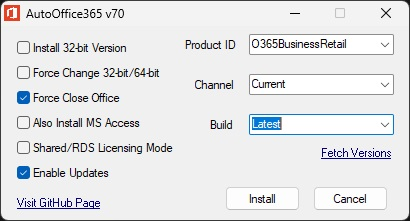
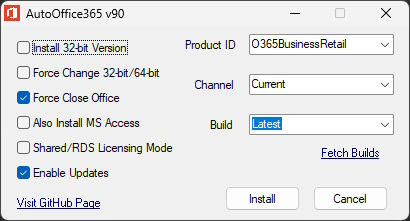
update screenshot and readme

diff --git a/README.md b/README.md
@@ -1,5 +1,5 @@
 # AutoOffice365
-This simple tool works as an interface for the Office Deployment Tool, allowing you to quickly install Microsoft Office without editing required XML file or using the command line.
+This simple tool works as an interface for the Office Deployment Tool, allowing you to quickly install Microsoft Office without editing the required XML file or using the command line.
 
 <p align="center">
   <img src="https://github.com/jmclaren7/auto-office-365/blob/main/Extras/screenshot1.jpg?raw=true">
@@ -10,13 +10,3 @@ This simple tool works as an interface for the Office Deployment Tool, allowing 
 * Select or type the product ID, channel and build to install
 * Select the channel you want and the click "Fetch Versions" to automatically populate a list of build numbers (Thanks to the API at https://office365versions.com)
 * Add "[silent]" to the file name to have the installer run automatically with default values
-
-## To Do
-* Add an option to specify where the install data is saved (DownloadPath)
-* Add an option to use already downloaded install data
-* Add language selection with support for multiple language selection
-* Add option to hide log, ODT console and ODT window
-* Add more product ID options to make individual product install possible with support for multiple product selection and product exclusion
-* Add activation options
-* Add DeviceBasedLicensing and SCLCache options
-* Improve download progress indicator
